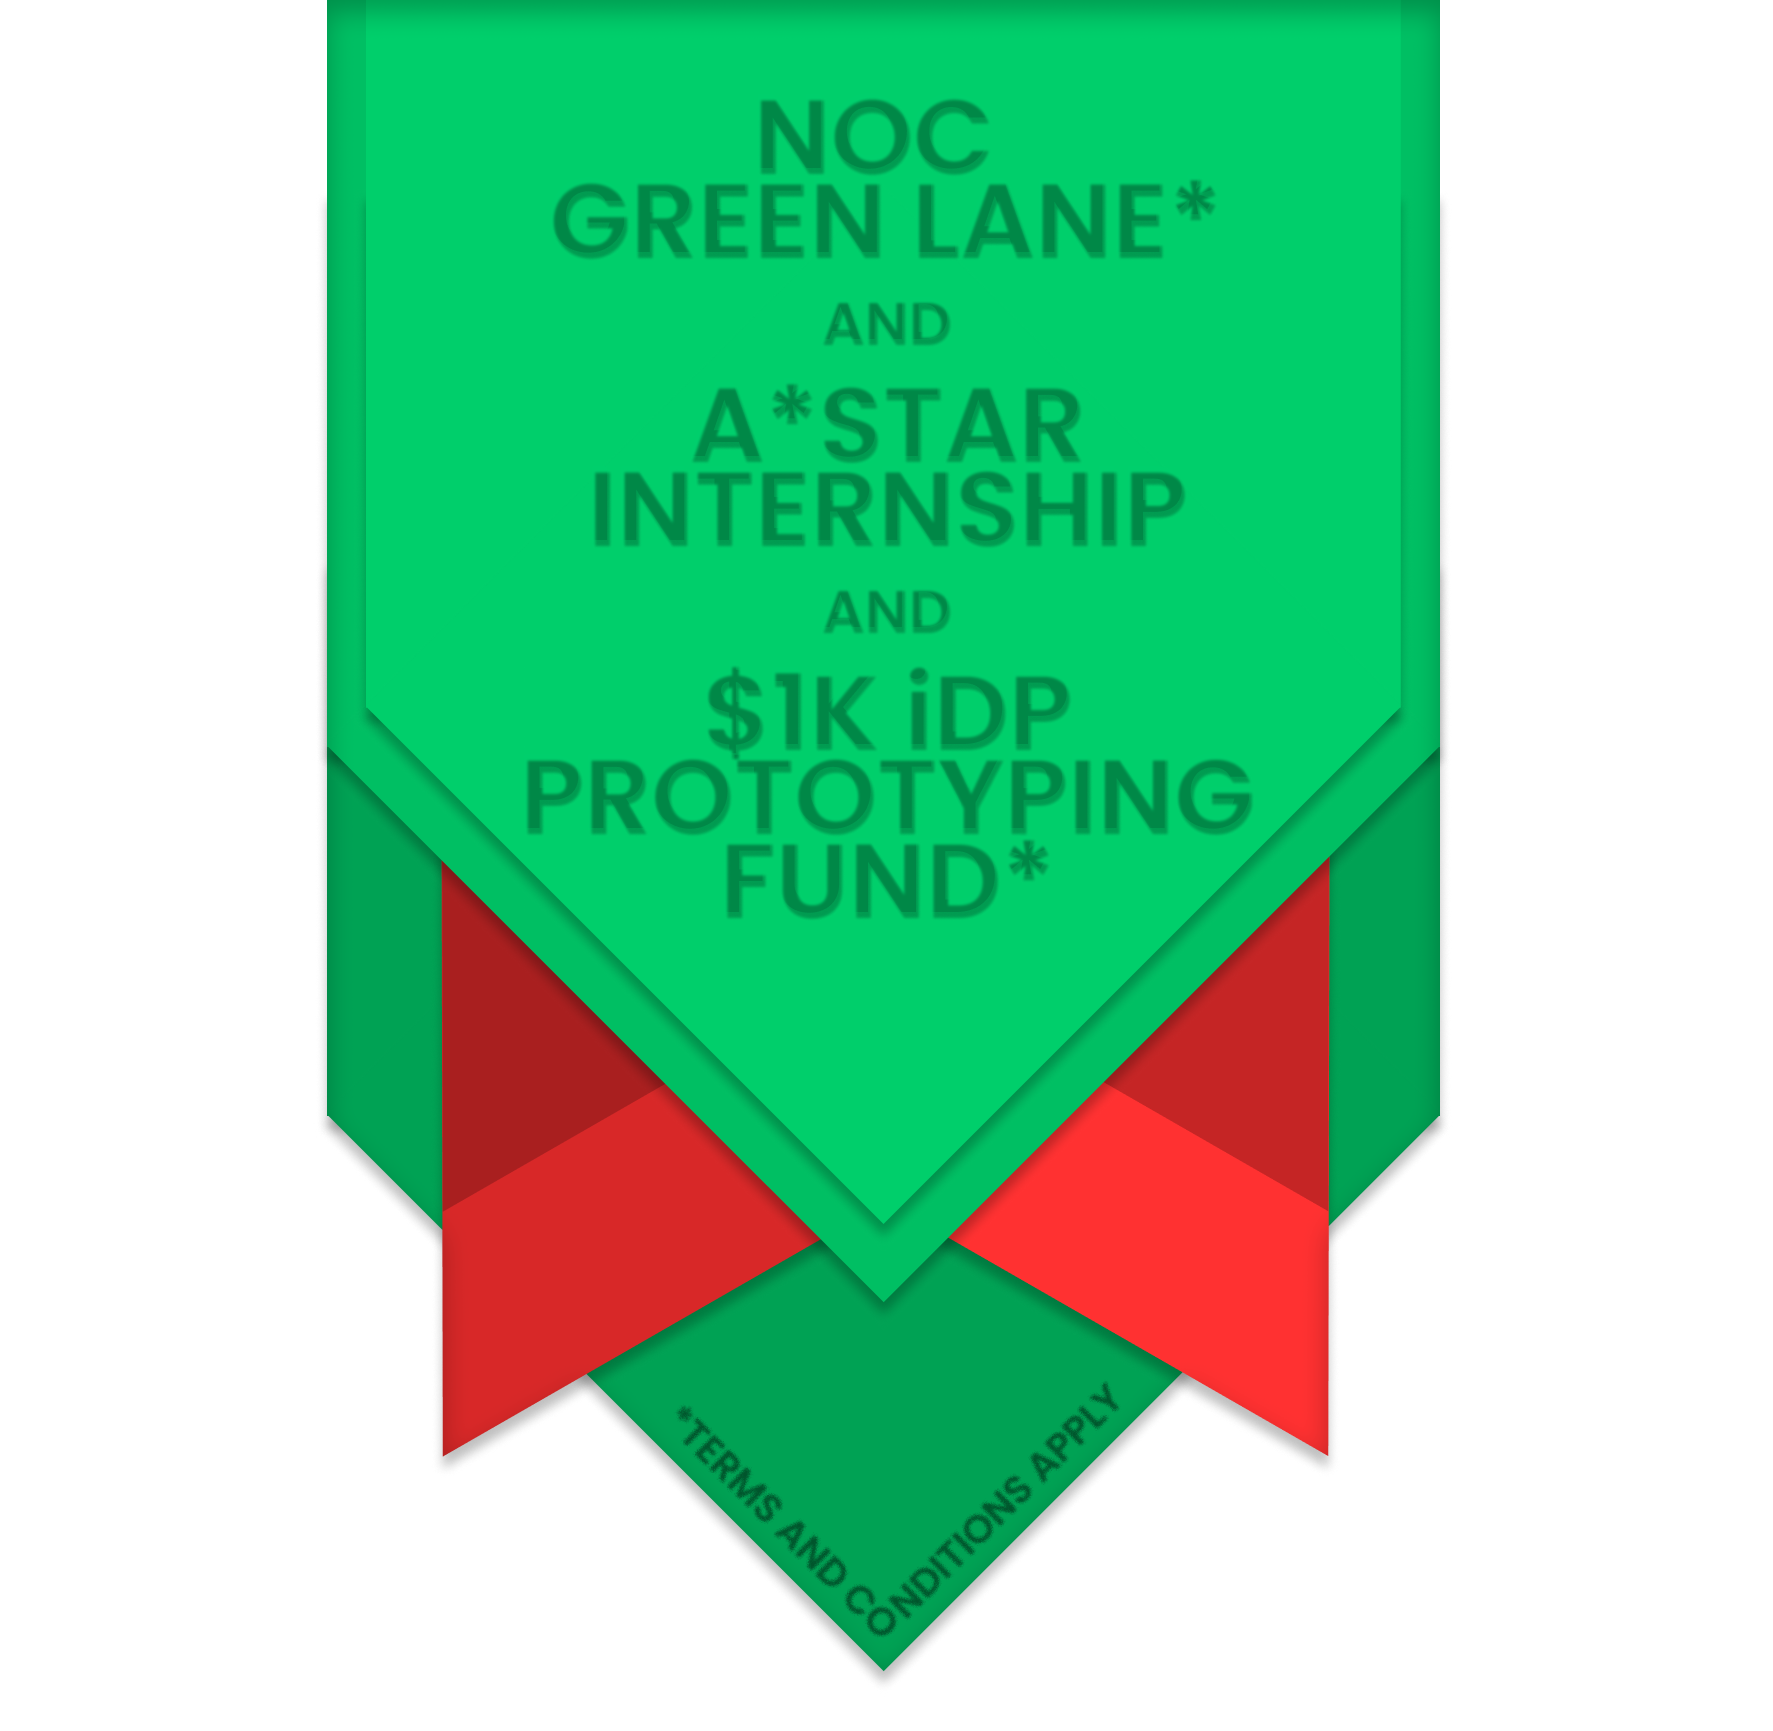
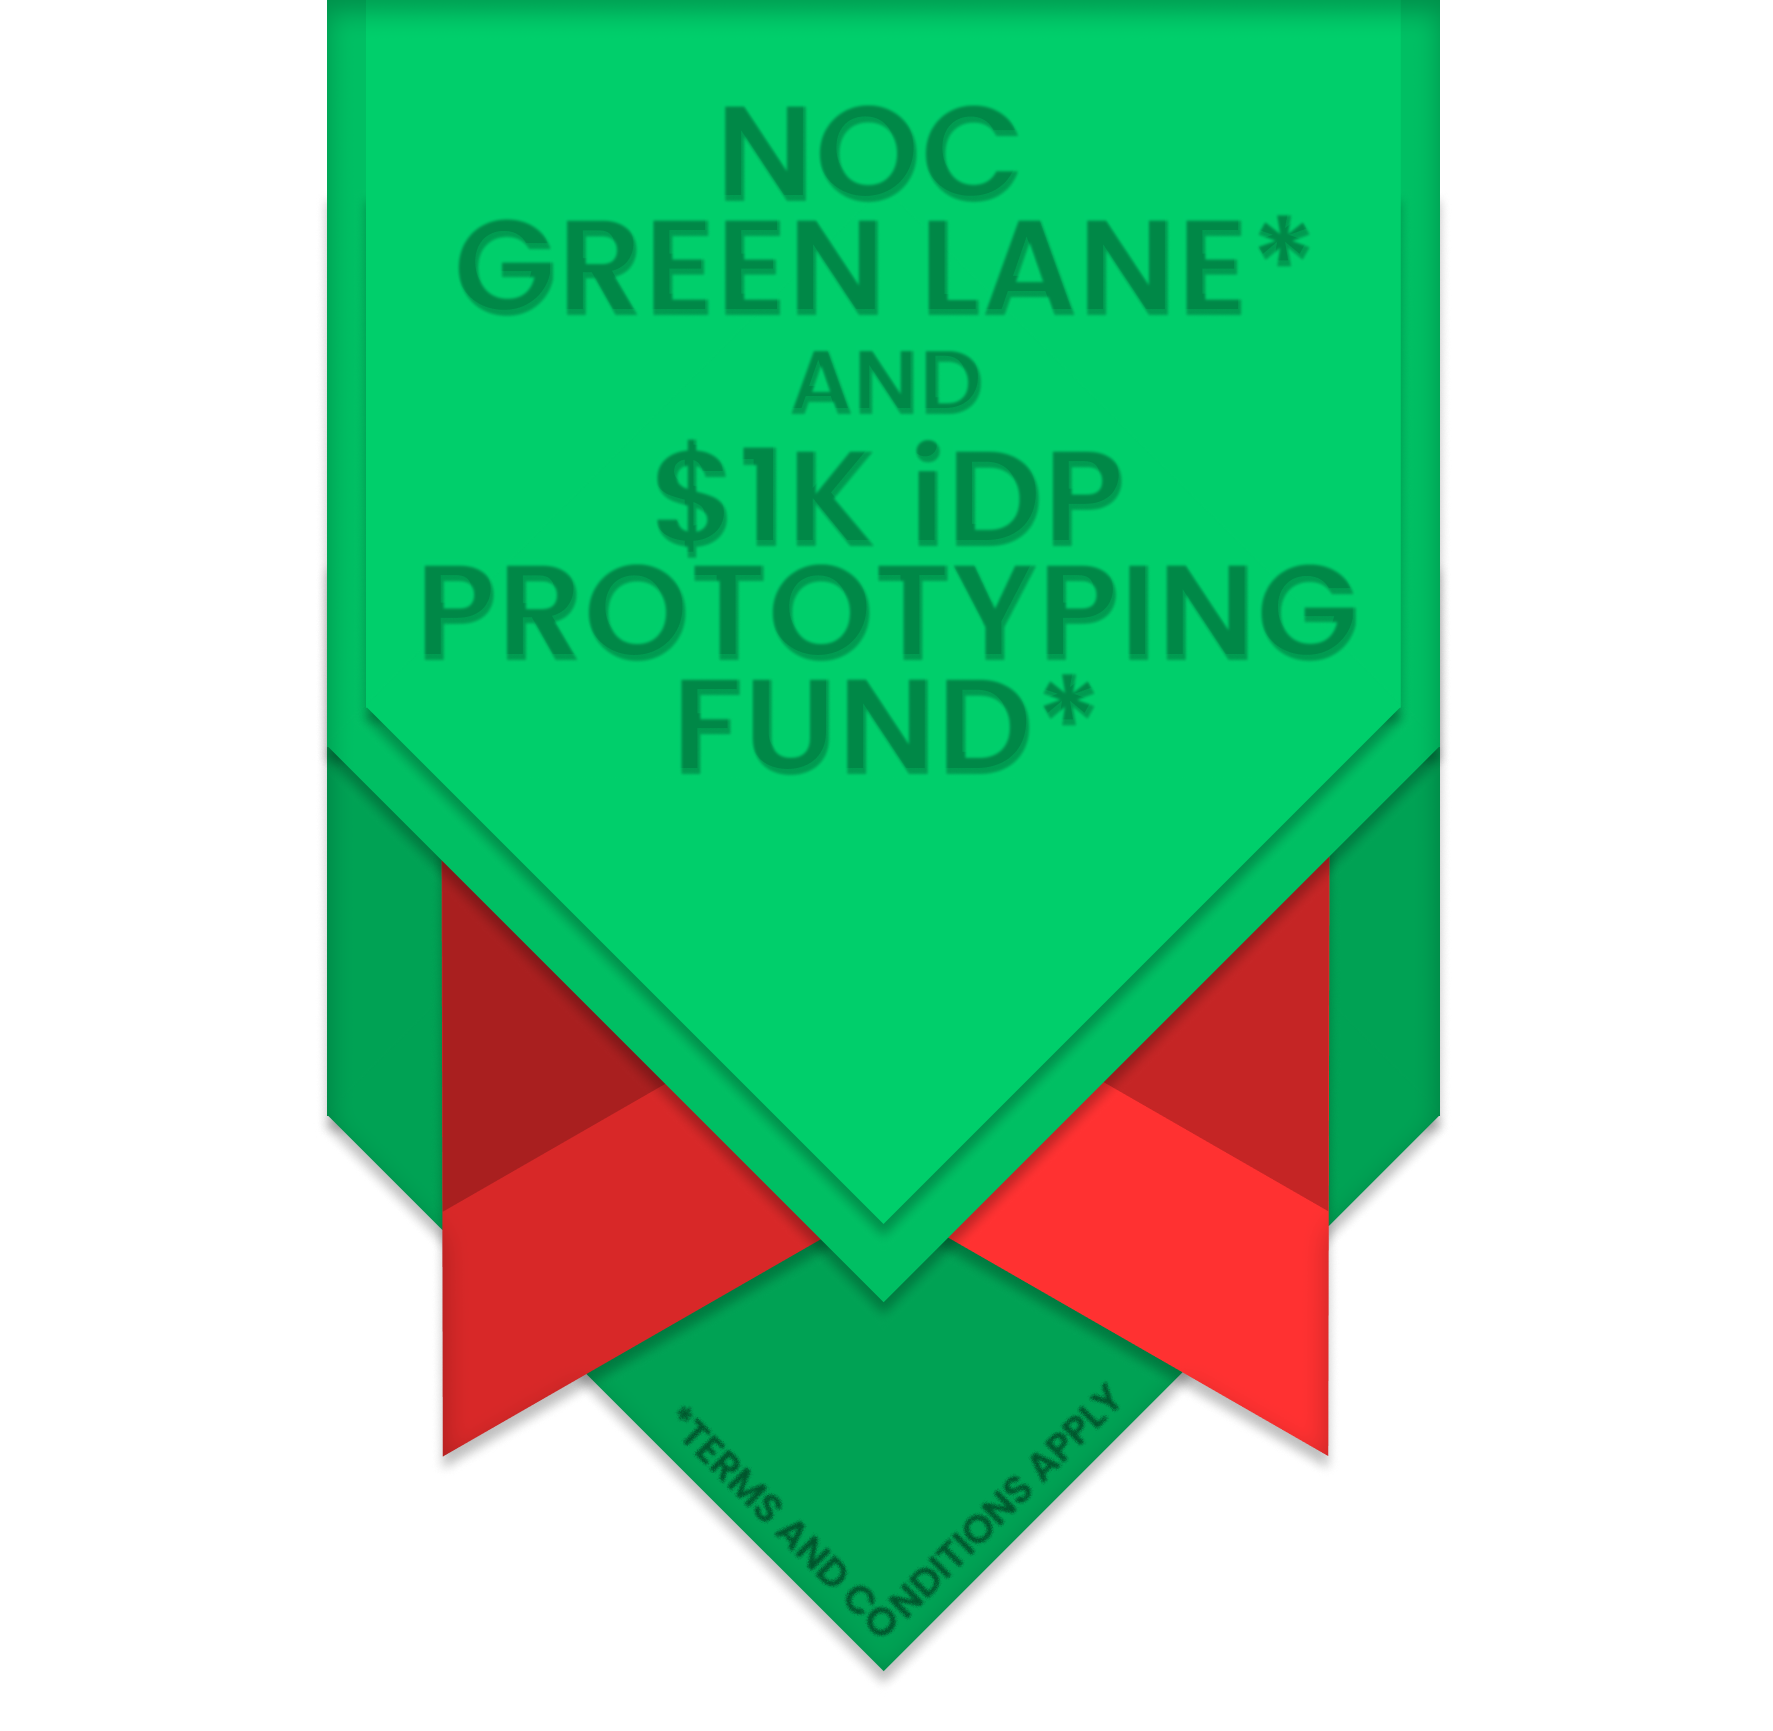
adjust semis prizes

Changed region(s): [[0.2171, 0.0624, 0.7755, 0.5303]]

diff --git a/src/components/home/prizes/Prizes.tsx b/src/components/home/prizes/Prizes.tsx
@@ -42,7 +42,7 @@ const Prizes: React.FC = () => {
                     className="w-[50vw] md:w-[40vw] self-center"
                 />
                 <img 
-                    src="../prizes/all_semis_icon.png"
+                    src="../prizes/all_semis_icon_wo_astar.png"
                     className="block md:hidden w-[60vw] mt-10 self-center"
                 />
                 <div className="m-3 md:col-span-2 w-[80vw]">
